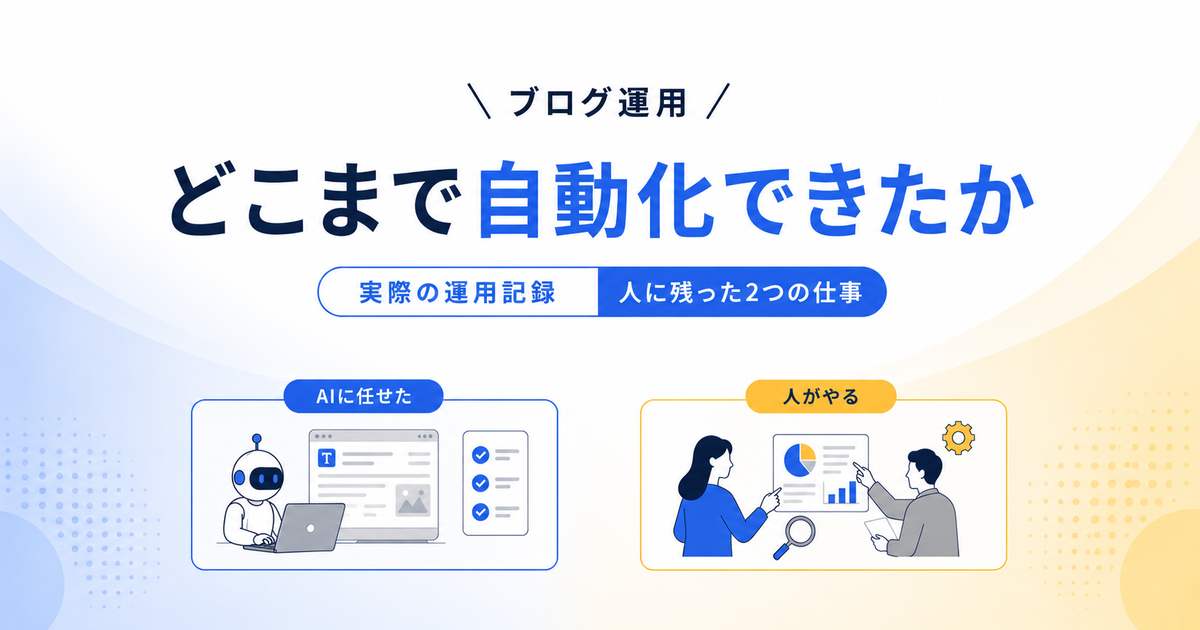
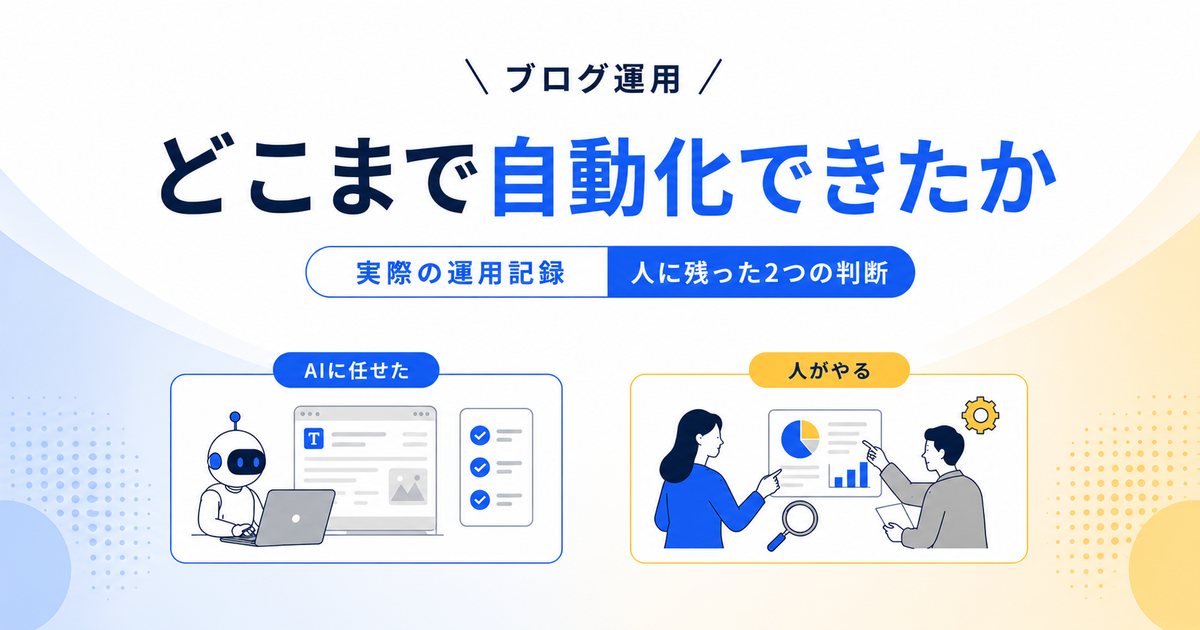
fix: no.64の工程表を実態に直し、タイトル・アイキャッチを「判断」に統一
【最大の修正】工程と担当の表が事実と違っていた（ユーザー指摘）。
「仕組み／人」の二択で書いていたが、実際はどの工程にもAIと人の両方が入る。
3列（工程／AIがやっていること／人がやっていること）に作り直し、
【アラート】「AIが記事を作る」と書くと語弊があります。実際は全部が共同作業です。を追加。

あわせて「全部自動化できる」という印象を3箇所で抑えた
（リード3文目・H2②の締め・H2⑤に「まるごと任せられる状態にはなっていない」）。

タイトル/H1/description/alt/H2③/アイキャッチを「2つの判断」に統一。
WP下書き（ID 879）にも全文反映済み・下書き保存まで完了。

diff --git a/articles/blog-operation-automation-limit.md b/articles/blog-operation-automation-limit.md
@@ -2,23 +2,23 @@
 no: 64
 series:
 series_no:
-title: ブログ運用はどこまで自動化できたか。人に残った2つの仕事
+title: ブログ運用はどこまで自動化できたか。人に残った2つの判断
 date:
 url:
 slug: blog-operation-automation-limit
 status: draft
-description: AIにブログ運用をどこまで任せられるのかを、実際の運用記録から整理します。4ヶ月前に無理だと書いた入稿作業は、ログイン後から下書き保存までを人が触らずに終えられました。それでも記事1本の流れで見ると、人には決めることと確かめることが残ります。何をどう確かめているかまで書きます。
-eyecatch_alt: ブログ運用の自動化でAIに任せた工程と人に残った仕事を整理した記事のアイキャッチ画像
+description: AIにブログ運用をどこまで任せられるのかを、実際の運用記録から整理します。4ヶ月前に無理だと書いた入稿作業は、ログイン後から下書き保存までを人が触らずに終えられました。それでも記事1本の流れで見ると、どの工程にもAIと人の両方が入っています。人に残った2つの判断まで書きます。
+eyecatch_alt: ブログ運用の自動化でAIに任せた工程と人に残った2つの判断を整理した記事のアイキャッチ画像
 eyecatch: eyecatch_0064.png
 category: AIコンテンツ運用検証
 tags: ブログ運用,自動化,AI,Claude Code,WordPress
 ---
 
-# ブログ運用はどこまで自動化できたか。人に残った2つの仕事
+# ブログ運用はどこまで自動化できたか。人に残った2つの判断
 
 ブログの入稿作業を、AIに任せられるようになりました。
 4ヶ月前は無理だと書いていた工程で、ログインのあと下書きが仕上がるまで人が触りません。
-==それでも人には、決めることと確かめることが残りました==。
+==それでも、人が判断する場所はなくなっていません==。
 
 ## 4ヶ月前に「ここは任せられない」と書いていた
 
@@ -65,29 +65,33 @@ SWELLなので入稿までは無理だと思っていました。初めて試し
 
 経路が増えたこととは別に、試さないまま置いていた期間もありました。できないと決めていたので、確かめていませんでした。
 
-ただし、ここで人に残ったのはログインと公開ボタンの2つだけ、という話は**入稿という1工程の中での話**です。
+ただし、ここで人に残ったのはログインと公開ボタンの2つだけ、という話は**入稿という1工程の中での話**です。記事1本をまるごと任せられる、という意味ではありません。
 
-## それでも、人に残った2つの仕事
+## それでも、人に残った2つの判断
 
 ここからは記事1本の流れ全体を見ます。
 ネタを決めるところから公開までを並べると、景色が変わります。
 
-| 工程 | 担当 |
-|---|---|
-| 記事ネタのストック化 | 仕組み |
-| **どのネタを書くか決める** | **人** |
-| **書く順番を決める** | **人** |
-| 構成案の作成 | 仕組み |
-| 機械チェック（一文の長さ・読点・禁止表現） | 仕組み |
-| 執筆 | 仕組み |
-| **構成と本文の確認** | **人** |
-| 入稿用ファイルへの変換 | 仕組み |
-| WordPressへの入稿（下書き保存まで） | 仕組み |
-| **公開の判断** | **人** |
+| 工程 | AIがやっていること | 人がやっていること |
+|---|---|---|
+| 記事ネタのストック化 | リサーチして候補を貯める | 使えるかどうかを見る |
+| 書くネタと順番を決める | 候補と推す理由を出す | 決める |
+| 構成案の作成 | 案を書き、指摘を反映する | 方向と範囲を判断して直す |
+| 機械チェック | 一文の長さ・読点・禁止表現を判定する | 機械が見ない部分を読む |
+| 執筆 | 本文を書く | 事実と言い回しを直す |
+| 構成と本文の確認 | 自己チェックを走らせる | 読んで直す |
+| 入稿用ファイルへの変換 | ブロック形式に変換する | 出力を確認する |
+| WordPressへの入稿 | 下書き保存まで作る | ログインする |
+| 公開 | 何もしない | 判断して押す |
 
-太字の行だけを見ると、==残っているのは決めることか、確かめることのどちらかです==。
+==どの工程にも、AIと人の両方が入っています==。片方だけで終わる工程は、ここにはありません。
 
-このうち、いま一番時間がかかっているのは構成と本文の確認です。
+【アラート】<br>
+「AIが記事を作る」と書くと語弊があります。実際は全部が共同作業です。
+
+そのうえで人がやっていることを見ると、**決めることと確かめることの2つ**に分かれます。どちらも判断です。
+
+このうち、いま一番時間がかかっているのは構成と本文の確認です。変わったのは、人が手を入れる場所です。判断そのものが減ったわけではありません。
 
 「処理は任せられても判断は残る」という話は、[AIでサボろうとしたら、思ったよりサボれなかった。でも今は回っている。](https://aicontent-note.com/ai-content-operation-experience/)で一度書きました。
 
@@ -123,6 +127,8 @@ SWELLなので入稿までは無理だと思っていました。初めて試し
 ・自動化率ではなく、その形のまま続けられるかを見る
 
 2つ目が、今回いちばん変わったところです。以前は人の作業を「自動化できなかった残り」として見ていました。いまは工程表の一部として、最初から時間を取っています。
+
+工程は増やせましたが、**まるごと任せられる状態にはなっていません**。品質と事実の確認は、いまも人が入らないと成立しません。
 
 環境そのものの作り方は[AIに仕事を任せる人が最初に整えるべき環境。土台を作る5ステップ](https://aicontent-note.com/ai-work-environment-setup/)に書きました。
 
